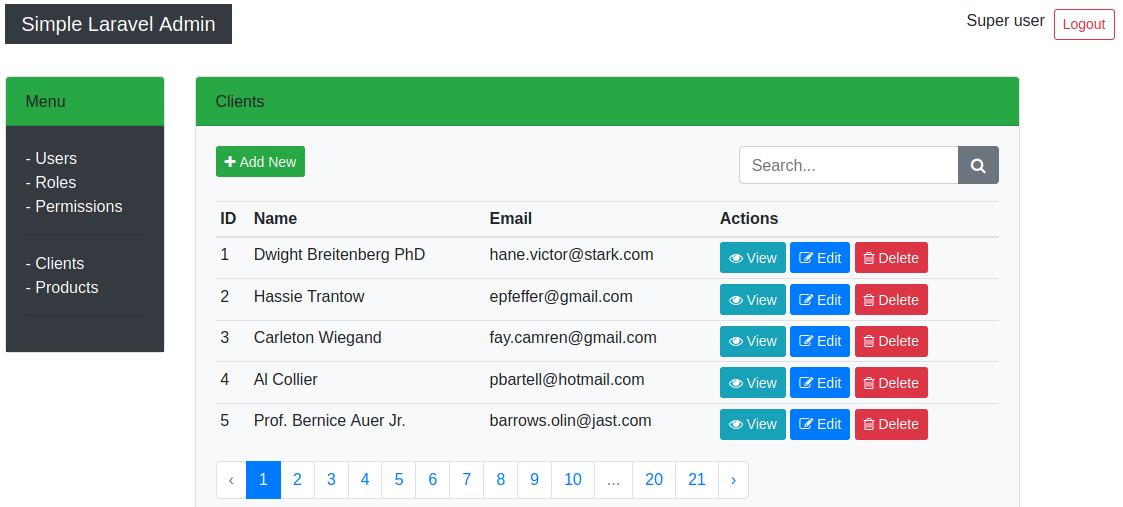
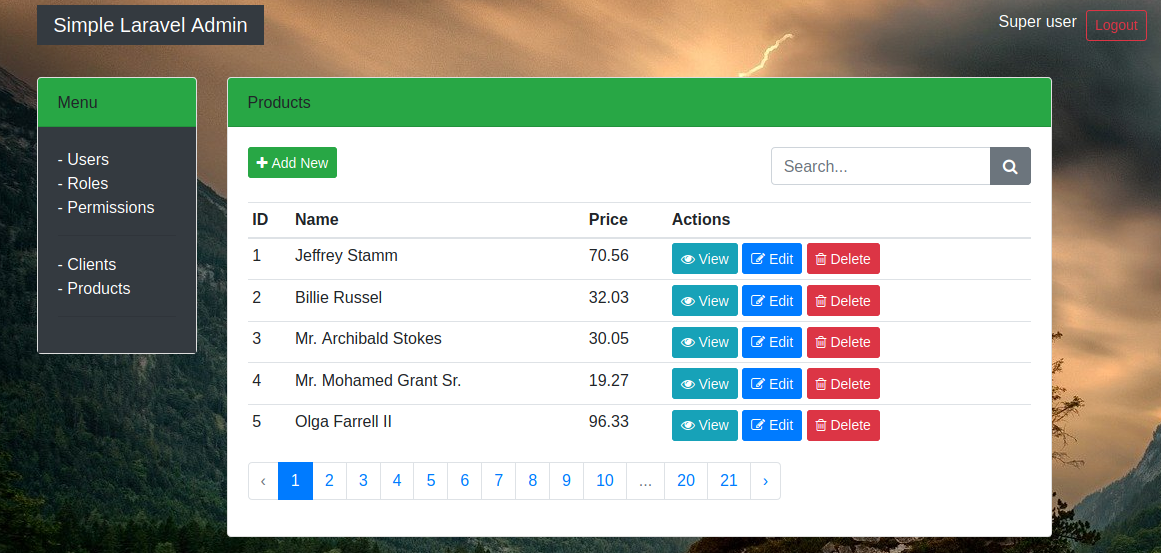
Update 29112020

diff --git a/public/css/style.css b/public/css/style.css
@@ -1,3 +1,7 @@
+body{
+    background-image:url('../img/bg6.jpg');
+}
+
 a:hover {
   color: #FFFF00 !important;
   text-decoration: none;

diff --git a/resources/views/layouts/app.blade.php b/resources/views/layouts/app.blade.php
@@ -51,7 +51,7 @@
                         @if(!Auth::check())
                             <li><a class="nav-link" href="{{ url('/login') }}">Login</a></li>
                         @else
-                                {{ Auth::user()->name }}&nbsp;&nbsp;
+                                <div class="text-white">{{ Auth::user()->name }}</div>&nbsp;&nbsp;
 
                                 <li class="nav-item">
                                     <form id="logout-form" action="{{ route('logout') }}" method="POST">
